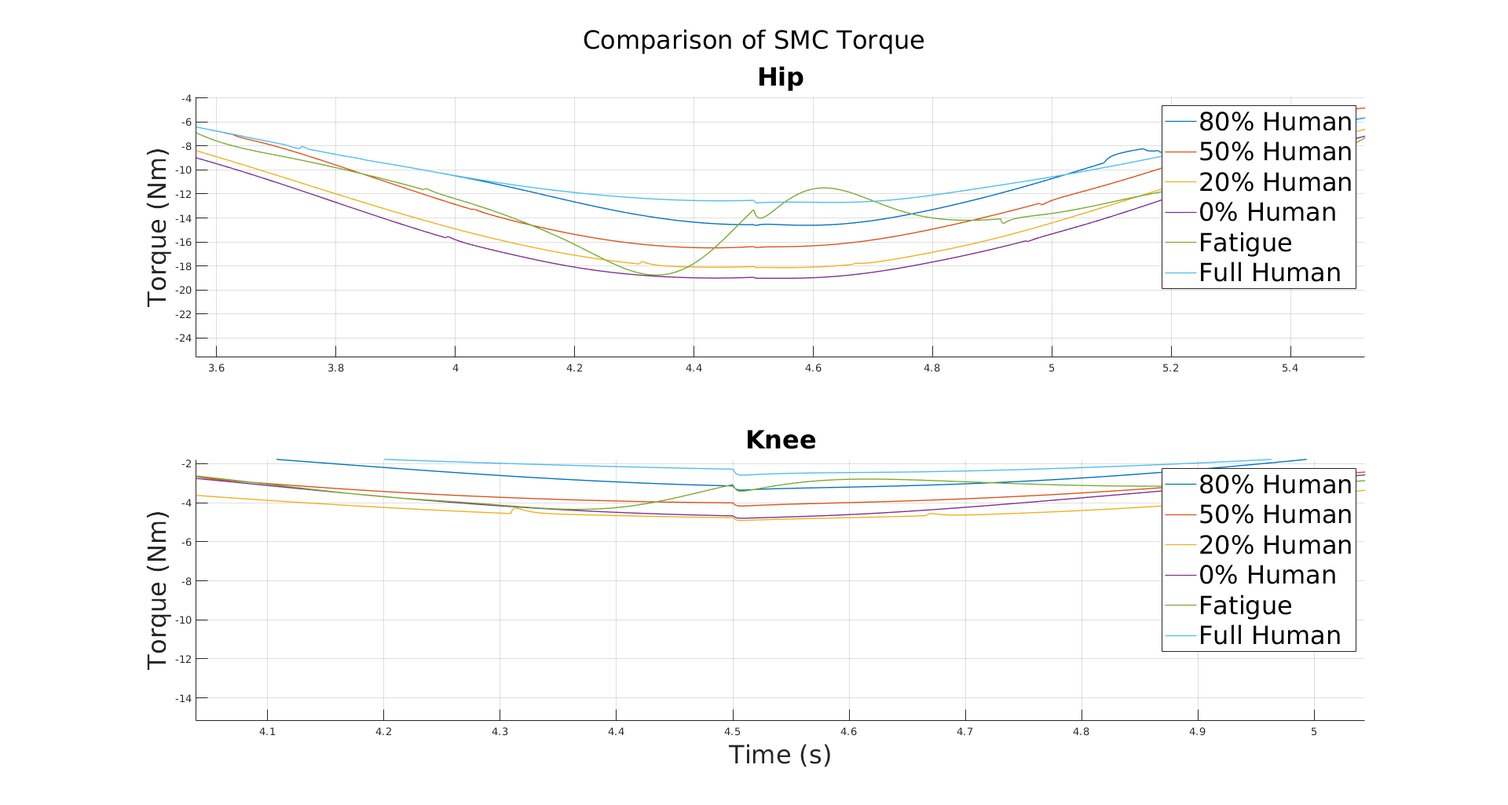
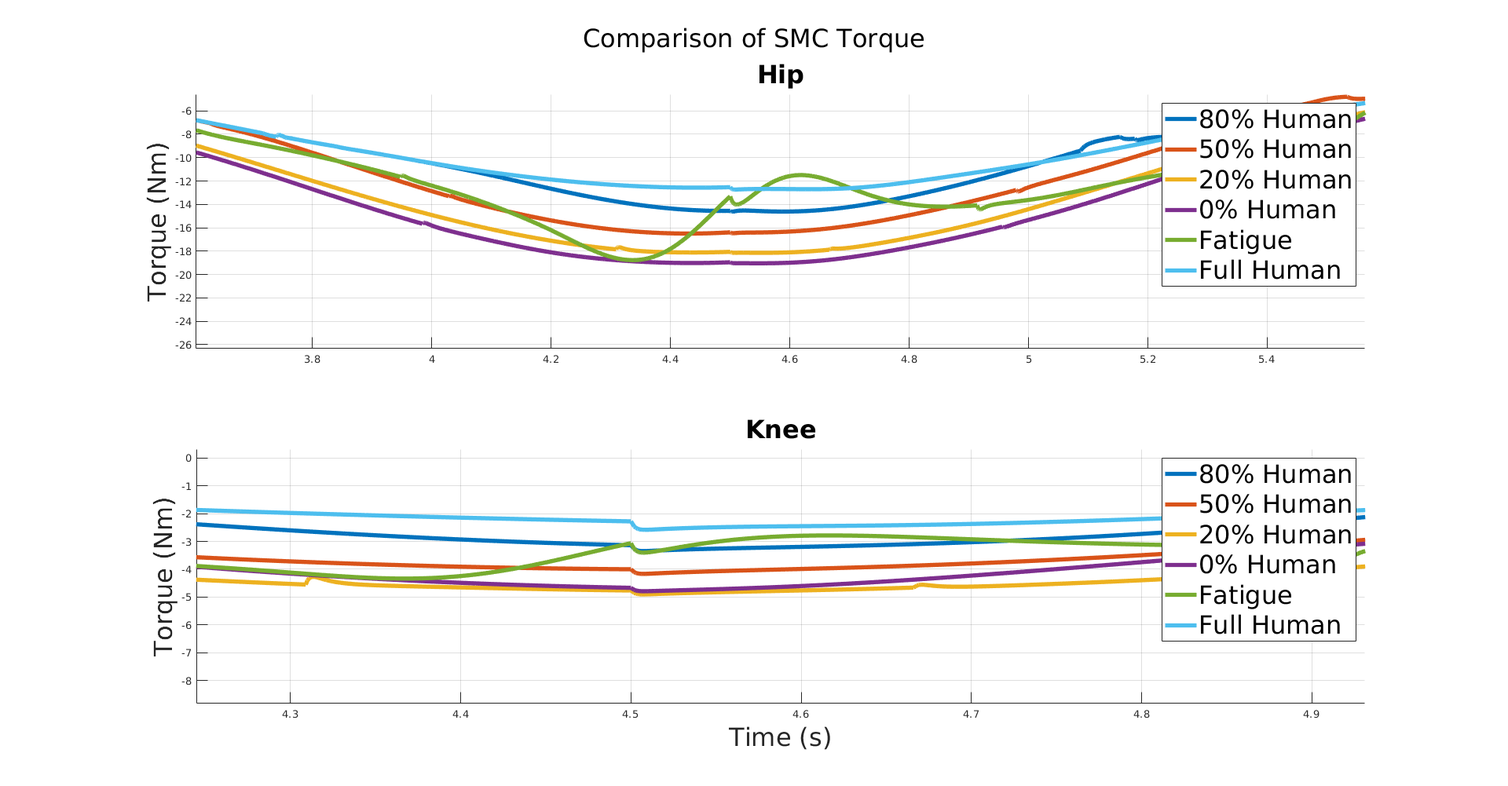
added gait information to coop controlelr, fixed some of the graphs to have thicker lines.

diff --git a/Chapters/simulation.tex b/Chapters/simulation.tex
@@ -2,7 +2,7 @@
 \label{chap:sim}
 \section{Overview}
 
-A simulation allows for the modeling and testing in a physics environment \cite{vzlajpah2008simulation}; this allows for analysis and measurements of controllers and their execution in different environments for robotics systems simulation. This feature makes it an ideal tool for the development of robotic systems. Simulation allows for controllers to be designed and tested. The simulation framework presented here is used to develop different controllers for the LARRE exoskeleton. All the controllers will be tested on the simulated LARRE model. 
+A simulation allows for the modeling and testing in a physics environment \cite{vzlajpah2008simulation}; this allows for analysis and measurements of controllers and their execution in different environments for robotics systems simulation. This feature makes it an ideal tool for the development of robotic systems. Simulation allows for controllers to be designed and tested. The simulation framework presented here is used to develop different controllers for the LARRE exoskeleton. All the controllers will be tested on the simulated LARRE model. Due to the current limitation and of AMBF all the controllers are tested with the hip of the exoskeleton fixed in space with no interaction with the ground. With further development of AMBF it is possible to adapt the controller methods present in this dissertation for ground level walking at slow speeds. 
 
 The Asynchronous Multi-Body Framework (AMBF) was used to simulate LARRE \cite{AMBF}. This framework was developed in the WPI AIM lab. 
 AMBF is a real-time dynamic simulation environment for robotics systems and uses the Robotic Operating System (ROS)\cite{quigley2009ros} as a middleware for external user control. It allows for a wide range of simulated robotics systems, including surgical robots, exoskeletons, cars, and serial manipulators. The robots are defined using AMBF description files that utilize the YAML\footnote{https://yaml.org/} format. The file describes the robot's links and joints. AMBF contains rigid body objects, sensors, and actuators. These different object types can be combined to create various robotic systems with complicated structures and sensing capabilities. 
@@ -52,8 +52,6 @@ Robotic controllers typically require knowledge of the systems' dynamics being c
 
  
  Each joint can be independently controlled and measured. The joints provide their position, velocity, and effort to the Python client, allowing the joint states to be measured and used for control. The \textit{exohuman} model consists of both the human and LARRE model. This is the first bipedal exoskeleton model that has been built for use in AMBF. Until now, the primary use of AMBF has been used to simulate robotic surgical systems. The exoskeleton adds several layers of difficultly since it is not a static system. Additionally, since the human model is connected to the exoskeleton, the two model segments can interact. The effort supplied by the human model will affect the joints of the exoskeleton; this allows for the testing of cooperative controllers, which is critical for developing the exoskeleton controller. The human effort is accounted for in the dynamic of the system.  
- 
- 
  
  
  Several sensors were built into LARRE to measure the joint states and the environment, including the joint positions and velocities. This is shown in \autoref{fig:simwalkingTraj}, where LARRE's joint positions and the human joint positions are compared to the desired trajectory.  \author{fig:simwalkingtorque} shows the torques over the same walking trajectory. As expected, the human and exoskeleton follow the same trajectory due to the joints of the human and exoskeleton being co-linear.  Similarly, \autoref{fig:simwalking} shows LARRE being controlled from a stand to sit cycle motion.
@@ -140,7 +138,13 @@ Robotic controllers typically require knowledge of the systems' dynamics being c
  \label{sec:controlarchitecture}
  
  \subsection{Overview}
- The controller architecture was developed with Shreyas Chandra Sekhar and presented a late-breaking result at iros 2021. This control package was made modular to control any serial link or parallel link manipulator modeled in AMBF. This package called the \textit{ambf\_control\_system} package consists of a dynamic server and a modular controller. The dynamic server is used to calculate the dynamics of the robotic model. The modular controller provides APIs to develop custom controllers. The contribution of this package is that it allows the dynamics of any model defined in the \textit{ADF} to be generated. It is not exclusively used for simulating systems in AMBF; it can also be used for generating the dynamics of robotic systems being simulated in Gazebo \cite{koenig2004design} or physical systems. Additionally, it expands the usability of AMBF by providing a comprehensive software package to control the AMBF simulation models. The package is split into two parts, a dynamics model server parsing configuration files and calculating the robot's dynamics and a controller interface for designing and implementing custom controllers. \autoref{fig:ambfcontrolartecture} shows a architecture diagram of the package. 
+ The controller architecture was developed with Shreyas Chandra Sekhar and presented a late-breaking result at iros 2021. Open source development of surgical robotic platforms as seen a lot of development in recent years with the development with the development of Collaborative Robotics Toolkit (CRTK)\cite{su2020collaborative}, da Vinci Research Kit \cite{d2021accelerating}, and AMBF The progress and development of these systems allow for researchers to develop new tools for surgical applications. The development of the  AMBF simulation platform allows for simulation of various surgical robotic platforms. 
+
+The dynamics of the robots used in the medical or industrial applications are often complex, and may involve some redundant links and joints such as the dVRK robot\cite{wang2019convex}. Analytically calculating the dynamics model for a controller is complex and may lead to model singularities and errors that cause instability in the controller. This process is often very robot-specific as well. A model configuration file that allows for procedural generation of the dynamic model will ensure that the controller has a matching model for canceling out the non-linear dynamic errors of the robotic model.
+
+These new simulation platforms presents the need for a open source control toolbox to interact and control the robotic platforms. This is split into two separate systems: a dynamics server, and a controller server. The dynamics server calculates the dynamics and kinematic properties of the robot. The controller server is used for calculating control commands for the robot. By dividing the implementation these two systems they can be used either together or separately.  Wrapping these system in ROS, the dynamics server can be accessed cross-platform and allows for a custom controller that incorporates dynamics of arbitrary robots to be readily implemented. Additionally, a control package is presented that leverages the dynamic server to implement the custom controller. This software architecture enables model-based controllers to be developed for, and evaluated on, different simulation and physical systems.  The dynamic server and controllers make up the \textit{ambf\_control\_system} package. While this tool is contrains \textit{ambf} in its name it can be used with any simulation system, in this paper we will only present the system application in AMBF. \autoref{fig:ambfcontrolartecture} shows a architecture diagram of the package. 
+ 
+
  
 
  \begin{figure}
@@ -202,7 +206,7 @@ Robotic controllers typically require knowledge of the systems' dynamics being c
 
 
 
-The dynamic server is designed to be used with Python and C++ clients. This modularity is achieved by wrapping the RBDL API in ROS services; this includes Jacobians, forward dynamics, inverse dynamics, and forward kinematics. These calculations have their own custom ROS service message that passes the necessary parameters down to the RBDL API and returns the calculated response. 
+The dynamic server is designed to be used with Python and C++ clients. This modality is achieved by wrapping the RBDL API in ROS services; this includes Jacobians, forward dynamics, inverse dynamics, and forward kinematics. These calculations have their own custom ROS service message that passes the necessary parameters down to the RBDL API and returns the calculated response. 
 
 The AMBF client gathers the joint position ($q$), joint velocity ($\Dot{q}$), and acceleration ($\DDot{q}$) of the robot.  The forward kinematics are calculated using these variables as shown in \autoref{eq:FD}; this returns the torque at each of the joints. To find the joint acceleration, the joint position and velocity are required in addition to a torque or command ($\tau$) shown in \autoref{eq:ID}.  
 
@@ -220,24 +224,16 @@ The AMBF client gathers the joint position ($q$), joint velocity ($\Dot{q}$), an
 \end{equation}
 
 
-The control input was measured over one million iterations to measure the execution time. The total time to call the control server and RBDL server is $1.53ms$; this includes sending and receiving both messages to both servers. Individually the calculation of the inverse kinematics is $0.013ms$, while the controller calculation takes $0.024ms$.  A direct call to the RBDL API is faster than calling it with the abstraction layer, which increases the total time required to calculate the control command. However, the abstraction layer adds the benefits of allowing cross-language support and eliminates the need to develop a YAML to RBDL parser for C++ and Python, which would double the amount of code that has to be developed and maintained. The trade-off for eliminating these complications is a time penalty for calling the ROS service of approximately $1ms-1.5ms$. This time loss is acceptable for the trade-off in the gained functionality. 
+
+\autoref{fig:dyntimming} shows the average time to get and receive a message from the dynamic server. The server was called one million times resulting in an average call time of $0.49ms$ with a standard deviation of $0.07ms$. Calling the RBDL API directly takes approximately $0.013ms$. While, this is a magnitude more it is still under $1ms$ of time. This trade should be acceptable for the modality that the dynamic server provides. 
+
+
  
  
- \subsection{Control Manager}
+ \subsection{Control Server}
  
- The control diagram is shown in \autoref{fig:Basic_AMBF_Control_Loop}. The controller manager is responsible for managing the controllers and calculating the control commands. The control manager is split into two systems; the controllers and manager pass the commands into the desired controller. 
-
-\begin{figure}[h!]
-    \centering
-    \includegraphics[scale=1.25]{images/sim/control_outline.png}
-    \caption[Basic AMBF Control Loop]{Basic AMBF Control Loop}
-    \label{fig:Basic_AMBF_Control_Loop}
-\end{figure}
-
-The control manager is a ROS service that abstracts the command inputs and allows for communication between the user and the desired controller; this allows the manager to be accessed from the Python or C++ application using a ROS service call. The control manager does not directly interact with the AMBF simulation environment. It is solely responsible for passing the control parameters back and forth between the user and the controller. This framework requires the user to maintain the control loop, gather the robot state, and send the control commands down to the robot. 
-
-Controllers are attached to the manager and are accessed at run time by the user. Multiple controllers can be connected to the manager, and each controller has a unique name to identify it.  A controller can be designed to collect external data via topics for obstacle avoidance or other external information. This framework is achieved by having each controller extend the \textit{BaseController} class, which acts as a base class to develop the controller. This framework allows for flexibility in the design of a controller. Several controllers are built into the package, including a PD controller, a model-based controller, and a sliding mode controller.  \autoref{fig:CntrlCommunicationHistogram} shows the timing histogram for one million calls to the dynamic server; on average, the call timing was $0.51ms$ with a standard deviation of $0.043ms$.  
-
+ The controller manager is responsible for managing the controllers and calculating the control commands. The control manager is split into two systems; the controllers and manager that pass the commands into the desired controller. 
+\autoref{fig:CntrlCommunicationHistogram} shows the timing histogram for one million calls to the controller server; on average, the call timing was $0.51ms$ with a standard deviation of $0.043ms$.  
 
  \begin{figure}
      \centering
@@ -247,7 +243,21 @@ Controllers are attached to the manager and are accessed at run time by the user
  \end{figure}
 
 
-\section{Integration of Control Artecture}
+The control manager is a ROS service that abstracts the command inputs and allows for communication between the user and the desired controller; this allows the manager to be accessed from the Python or C++ application using a ROS service call. The control manager does not directly interact with the AMBF simulation environment. It is solely responsible for passing the control parameters back and forth between the user and the controller. This framework requires the user to maintain the control loop, gather the robot state, and send the control commands down to the robot. A basic control diagram is shown in \autoref{fig:Basic_AMBF_Control_Loop}.
+
+
+\begin{figure}[h!]
+    \centering
+    \includegraphics[scale=1.25]{images/sim/control_outline.png}
+    \caption[Basic AMBF Control Loop]{Basic AMBF Control Loop}
+    \label{fig:Basic_AMBF_Control_Loop}
+\end{figure}
+
+Controllers are attached to the manager and are accessed at run time by the user. Multiple controllers can be connected to the manager, and each controller has a unique name to identify it.  A controller can be designed to collect external data via topics for obstacle avoidance or other external information. This framework is achieved by having each controller extend the \textit{BaseController} class, which acts as a base class to develop the controller. This framework allows for flexibility in the design of a controller. Several controllers are built into the package, including a PD controller, a model-based controller, and gravity compensation controller.  
+
+
+
+\section{Integration of Control Architecture}
 
 \autoref{fig:SystemDiagram} shows a diagram of how all the systems are connected. The red objects are a part of the \textit{ambf\_control\_system} package, the green objects are part of the \textit{ambf} package, the gray objects are external systems or files, and the round objects depict ROS nodes. ROS is utilized as the primary communication method between the different systems.
 
@@ -275,5 +285,24 @@ Controllers are attached to the manager and are accessed at run time by the user
 
 The AMBF simulation framework provides a well-structured environment for the testing of robotic systems. The functionality of the package was enhanced with the development of the \textit{ambf\_control\_system} package. This package enables a dynamic controller to be built to control the AMBF models. By developing an AMBF to RBDL parser, the dynamic control model is identical to the simulation model. By abstracting the RBDL calculations and creating the model, it can be accessed by either Python or C++ AMBF applications. The control architecture allows for controllers to be designed and implemented. Attaching the controller to the control manager allows the controller to be accessed by a ROS service call. This package provides a comprehensive method of developing controllers for AMBF robots. This control package was released open-source for community use and development alongside AMBF, creating a total package for simulating and controlling robotic systems.   
 
-The simulation framework and newly developed control architecture allow for custom controllers to be built and tested to control LARRE. It models the interaction between the human and exoskeleton. The joint sensors provide state feedback enabling trajectory control by having both the human and exoskeleton joints controllable and a cooperative controller to be developed and tested in the simulation. Other simulation frameworks do not allow for such applications to be tested.  
+The simulation framework and newly developed control architecture allow for custom controllers to be built and tested to control LARRE. It models the interaction between the human and exoskeleton. The joint sensors provide state feedback enabling trajectory control by having both the human and exoskeleton joints controllable and a cooperative controller to be developed and tested in the simulation. Other simulation frameworks do not allow for such applications to be tested. More development and testing needs to be conducted in order to get ground level walking working. This includes fixing the friction properties of LARRE feet and inserting force sensors into the feet in order to detect each step of the exoskeleton. This should be possible as the AMBF platform grows as more researchers use and develop on the platform. AMBF in its current state makes it very difficult to implement this required changes.   
 
+
+% The control input was measured over one million iterations to measure the execution time. The total time to call the control server and RBDL server is $1.53ms$; this includes sending and receiving both messages to both servers. Individually the calculation of the inverse kinematics is $0.013ms$, while the controller calculation takes $0.024ms$.  A direct call to the RBDL API is faster than calling it with the abstraction layer, which increases the total time required to calculate the control command. However, the abstraction layer adds the benefits of allowing cross-language support and eliminates the need to develop a YAML to RBDL parser for C++ and Python, which would double the amount of code that has to be developed and maintained. The trade-off for eliminating these complications is a time penalty for calling the ROS service of approximately $1ms-1.5ms$. This time loss is acceptable for the trade-off in the gained functionality. 
+
+
+
+
+
+
+ 
+ 
+%  This control package was made modular to control any serial link or parallel link manipulator modeled in AMBF. This package called the \textit{ambf\_control\_system} package consists of a dynamic server and a controller server. The dynamic server is used to calculate the dynamics of the robotic model. The controller server provides APIs to develop and manage custom controllers. 
+ 
+ 
+%  The dynamics of the robots used in the medical or industrial applications are often complex, and may involve some redundant links and joints such as the dVRK robot\cite{wang2019convex}. Analytically calculating the dynamics model for a controller is complex and may lead to model singularities and errors that cause instability in the controller. This process is often very robot-specific as well. A model configuration file that allows for procedural generation of the dynamic model will ensure that the controller has a matching model for canceling out the non-linear dynamic errors of the robotic model. 
+ 
+%  The contribution of this package is that it allows the dynamics of any model defined in the \textit{ADF} to be generated. It is not exclusively used for simulating systems in AMBF; it can also be used for generating the dynamics of robotic systems being simulated in Gazebo \cite{koenig2004design} or physical systems. 
+ 
+
+%  Additionally, it expands the usability of AMBF by providing a comprehensive software package to control the AMBF simulation models. The package is split into two parts, a dynamics model server parsing configuration files and calculating the robot's dynamics and a controller interface for designing and implementing custom controllers. \autoref{fig:ambfcontrolartecture} shows a architecture diagram of the package. 

diff --git a/Chapters/Controllers/optimization.tex b/Chapters/Controllers/optimization.tex
@@ -93,7 +93,7 @@ The \textit{assisitie} system was controlled by \autoref{eq:PDcnrl}. This is sim
     \label{eq:PDcnrl}
 \end{equation}
 
-The admittance controls the virtual dynamics of the system and how the systems interact \cite{faulring2005haptic}. If the \textit{assastie} system is capable of following the desired motion, the \textit{assasitor} system will be less aggressive. This interaction is controlled by \autoref{eq:addmittance}, where $x_a$ is the location of the virtual system and $x_d$ is the location of the point on the pendulum link. A separate spring-dampener system is on each of the links of the system. The virtual system is defined by the following terms $M_d$, $B_d$, and $K_d$ are inertia, dampening, and stiffness, respectively. As previously stated, it is desirable to have these parameters adjust on the fly to the intention and ability of the \textit{assistie} system. The variability is controlled by \autoref{eq:intention} and \autoref{eq:varible}. Here $\alpha_{n,p}$ and $\gamma_{n,p}$ are tuning variables for the damping and stiffness of the admittance controller. The admittance will control how quickly and aggressively the \textit{assistor} system will respond. If the stiffness or dampening is too large, the model will not track the desired motion.   
+The admittance controls the virtual dynamics of the system and how the systems interact \cite{faulring2005haptic}. If the \textit{assastie} system is capable of following the desired motion, the \textit{assasitor} system will be less aggressive. This interaction is controlled by \autoref{eq:addmittance}, where $x_a$ is the location of the virtual system and $x_d$ is the location of the point on the pendulum link. A separate spring-dampener system is on each of the links of the system. The virtual system is defined by the following terms $M_d$, $B_d$, and $K_d$ are inertia, dampening, and stiffness, respectively. As previously stated, it is desirable to have these parameters adjust on the fly to the intention and ability of the \textit{assistie} system. The variability is controlled by \autoref{eq:intention} and \autoref{eq:varible}. Here $\gamma_{n,p}$ and $\alpha_{n,p}$ are tuning variables for the damping and stiffness of the admittance controller. The admittance will control how quickly and aggressively the \textit{assistor} system will respond. If the stiffness or dampening is too large, the model will not track the desired motion.   
 
 \begin{equation}
     \begin{aligned}
@@ -115,8 +115,8 @@ The admittance controls the virtual dynamics of the system and how the systems i
 
 \begin{equation}
     \begin{bmatrix} K_d \\ B_d \end{bmatrix} = \begin{cases}
-        \begin{bmatrix} K_{p} \\ B_{p} \end{bmatrix} + \mu  \begin{bmatrix} \gamma_p  \\ \alpha_p \end{bmatrix}, intent = 1 \\
-        \begin{bmatrix} K_{n} \\ B_{n} \end{bmatrix} - \mu  \begin{bmatrix} \gamma_n  \\ \alpha_n \end{bmatrix}, intent = 0
+        \begin{bmatrix} K_{p} \\ B_{p} \end{bmatrix} + \mu  \begin{bmatrix} \alpha_p  \\ \gamma_p \end{bmatrix}, intent = 1 \\
+        \begin{bmatrix} K_{n} \\ B_{n} \end{bmatrix} - \mu  \begin{bmatrix} \alpha_n  \\ \gamma_n \end{bmatrix}, intent = 0
   \end{cases}
   \label{eq:varible}
 \end{equation}
@@ -313,28 +313,40 @@ Testing the variability in alignment allows for testing of the controller when t
 
 
 
-\subsection{Application of Tuning Methodology}
+\subsection{Application of Tuning Methodology on a Simple Trajectory}
 
 The tuning methodology discussed above was implemented on a the leg of the LARRE using the dynamics server to calculate the inverse and forward dynamics. This was due to complicated in the ROS-Simulink bridge, which is discussed below. 
 
 To tune the controller each of the joints of the leg where command to follow a polynomial trajectory. This was done to allow for the boundary conditions of the path to be controlled for testing. The tuning method discussed above. This model added complexity to tuning process since it added another dimension that need to be tuned. An assumption that was made that while the thigh and shank of the exoskeleton where connected via a spring-dampener system, the foot of the exoskeleton and human where rigidly connected. Additionally, the closed loop PD controller is assumed to be a FES type devices that can transform displacement into torque through pulse width and frequency modulation \cite{rouhani2017pid, ha2015approach,Model_Ferrarin}. The hip and knee joints of the exoskeleton controller is assumed to be powered by BLDC motors as discussed in \autoref{chap:mech}.
 
-\autoref{fig:LARRE_TUNING} shows the cost convergence over the optimization. A single leg was tuned to lower the amount of parameters that needed to be optimized. The optimization lowers the RSME cost from 2.66 to 0.6 which is a 77.44\% reduction. At each step in the iterations the parameters are changed in attempt to lower the cost function. The parameters being tuned have different magnitudes are thus graphed in separately to accurately show the change at each step.
+\autoref{fig:LARRE_TUNING} shows the cost convergence over the optimization. A single leg was tuned to lower the amount of parameters that needed to be optimized. The optimization lowers the RSME cost from 2.66 to 0.6 which is a 77.44\% reduction. At each step in the iterations the parameters are changed in attempt to lower the cost function. The parameters being tuned have different magnitudes are thus graphed in separately to accurately show the change at each step. \autoref{fig:LARRE_Train_Trajectory} shows how the joints of the training trajectories. As shown the initial starting position has some wobbling in the ankle position be the converged to the desired trajectory. This can be due to the initial conditions in the admittance controller or the value of $\lambda$ being large which effect the rise time.  
 
 \begin{figure}
     \centering
-    \includegraphics[width=\columnwidth]{images/controllers/trajs/cost.png}
-    \caption[LARRE Cost Optimization]{Cost of Tuning a single leg of LARRE}
-    \label{fig:LARRE_TUNING}
-\end{figure}
+    \begin{subfigure}[b]{\textwidth}
+        \centering
+        \includegraphics[width=0.8\columnwidth]{images/controllers/trajs/init_traj.png}
+        \caption[LARRE Training Trajectory]{LARRE Training Trajectory}
+        \label{fig:LARRE_Train_Trajectory}
+    \end{subfigure}
+    
+    \begin{subfigure}[b]{\textwidth}
+        \centering
+        \includegraphics[width=0.8\columnwidth]{images/controllers/trajs/cost.png}
+        \caption[LARRE Cost Optimization]{Cost of Tuning a single leg of LARRE}
+        \label{fig:LARRE_TUNING}
+    \end{subfigure}
+  
+    \begin{subfigure}[b]{\textwidth}
+        \centering
+        \includegraphics[width=0.8\columnwidth]{images/controllers/trajs/params_splite.png}
+        \caption[LARRE Parameters Optimization]{Parameters Changing Over Iterations}
+        \label{fig:LARRE_PARAMS}
+    \end{subfigure}
 
-\begin{figure}
-    \centering
-    \includegraphics[width=\columnwidth]{images/controllers/trajs/params_splite.png}
-    \caption[LARRE Parameters Optimization]{Parameters Changing Over Iterations}
-    \label{fig:LARRE_PARAMS}
+    \caption{Output for Training LARRE Graphs}
+    \label{fig:traj_training_graph}
 \end{figure}
-
 
 
 While \autoref{fig:LARRE_PARAMS} shows how the parameters change over time it does not give insight to the relative importance of the tuning parameters. A global sensitivity analysis was done to examine which parameters have the largest effect on the cost function. The goal of the analysis is to apportioning the uncertainty in outputs to the uncertainty. A global sensitivity analysis is when all the parameters are varied simultaneously over the entire range of the the inputs factors \cite{saltelli2008global}. This can be done by examining several different correlation methods listed below. Additional, these methods can also be examined as \textit{Ranked} methods. A ranked correlation method measures an ordinal association between the different variables. The ranking is is the assignment of the ordered labels. 
@@ -362,14 +374,144 @@ This data can be used to choose the more important parameters when optimizing th
 \end{equation}
 
 
-
-
 \begin{figure}
     \centering
     \includegraphics[width=\columnwidth]{images/controllers/trajs/stats.png}
     \caption[Relative Parameters Importance]{Relative Parameters Importance}
     \label{fig:paramStats}
 \end{figure}
+
+
+
+To examine the effect of the the model gains and the ability of the controller to adapt to to varying human interaction. The same trajectory was repeated three times. This was done to show how the steady state behavior of controller. Additionally, the foot is omitted since it is considered to be rigidly attached to the exoskeleton foot. 
+To examine the effects of the human effort were applied to the system from full human interaction to zero human interaction including 80\% involvement, 50\% involvement, 20\%, and a time decaying involvement. The percentage involvement was defined by examine the torque generated at 100\% involvement which was approximate $10Nm$. 
+
+\autoref{fig:StateSpaceTrajectory} shows the state space of the hip and knee joint. They show the joints move towards the sliding surface and converge towards zero with minimal chattering.  As shown in \autoref{fig:TripleTrajectory} the initial start part of the trajectory takes some time to settle to the trajectory. After the initail part of the motion the settles. The hip motion is slightly off the desired motion. The exoskeleton torque was capped to not exceed a maximum which should be raised to track the motion. This is shown since the knee motion tracks smoothly. 
+
+
+
+
+\begin{figure}
+    \centering
+    \begin{subfigure}{\linewidth}
+        \centering
+        \includegraphics[width=\columnwidth]{images/controllers/trajs/statespace.png}
+        \caption[State Space Trajectory]{State Space Trajectory}
+        \label{fig:StateSpaceTrajectory}
+    \end{subfigure}
+    \begin{subfigure}{\linewidth}
+        \centering
+        \includegraphics[width=\columnwidth]{images/controllers/trajs/triple_traj.png}
+        \caption[Triple Trajectory]{Triple Trajectory}
+        \label{fig:TripleTrajectory}
+    \end{subfigure}
+    \caption[Triple Trajectory LARRE]{Triple Trajectories}
+    \label{fig:TripleTraj}
+\end{figure}
+
+
+
+The human interaction is shown in \autoref{fig:humantripletraj}. For the varying interaction levels the human effort was saturated, this is shown since the toque cannot exceed the capped value. The fatigue started at 80\% human interaction and reduced as an exponential sine wave to 0\% interaction as shown in \author{fig:fatprofile}. While this may not be an accurate model it represents a decreasing torque over time. Additional fatigue is difficult to model as it depends on the patient muscle atrophy, the muscle being activated, and the pulse width used to activate the muscle \cite{reiner1998patient}. As expected the fatigue interaction contains a wave like motion as the PD controller attempts to handle the varying engagement levels. 
+
+
+\begin{figure}
+    \centering
+    \includegraphics[width=\columnwidth]{images/controllers/gait/fat_profile.png}
+    \caption[Fatigue Profile]{Fatigue Profile}
+    \label{fig:fatprofile}
+\end{figure}
+
+
+\begin{figure}
+    \centering
+    \includegraphics[width=\columnwidth]{images/controllers/trajs/human.png}
+    \caption[Human Torque over Triple Trajectory]{Human Torque over Triple Trajectory}
+    \label{fig:humantripletraj}
+\end{figure}
+
+
+\autoref{fig:SMCTripleFull} shows the effort supplied by the SMC for each of the engagement levels. \autoref{fig:SMCTripleZoom} is a zoomed of the same graph. As shown the as the human engagement increased the SMC magnitude of the effort decreased for both hip and knee joints. This shows that the SMC controller is adapting the human engagement level. 
+
+
+\begin{figure}
+    \begin{subfigure}{\linewidth}
+        \centering
+        \includegraphics[width=\columnwidth]{images/controllers/trajs/SMC_full.png}
+        \caption[SMC Torque over Triple Trajectory]{SMC Torque over Triple Trajectory}
+        \label{fig:SMCTripleFull}
+    \end{subfigure}
+    \begin{subfigure}{\linewidth}
+        \centering
+        \includegraphics[width=\columnwidth]{images/controllers/trajs/SMC_zoom.png}
+        \caption[SMC Torque over Triple Trajectory Zoomed]{SMC Torque over Triple Trajectory Zoomed In}
+        \label{fig:SMCTripleZoom}
+    \end{subfigure}
+    \caption{SMC Effort applied over the Triple Trajectory}
+    \label{fig:SMCEffortTriple}
+\end{figure}
+
+The interaction torques between the LARRE and the human is wait provides the assastive torques. The spring-dampener systems generates the force which are transformed in the the torques. \autoref{fig:InteractionTripleTraj} shows the interaction trajectories, as expected the the magnitude interaction torque increases when then the human involvement decrease this is because the human motion is lagging behind the location of exoskeleton thus generating larger forces. 
+
+\begin{figure}
+    \centering
+    \includegraphics[width=\columnwidth]{images/controllers/trajs/interactions.png}
+    \caption[Triple Trajectory Interaction Torques]{Triple Trajectory Interaction Torques}
+    \label{fig:InteractionTripleTraj}
+\end{figure}
+
+
+\subsection{Application of Tuning Methodology to Follow a Gait Cycle}
+
+
+Using the parameters calculated above the model was then used to follow a three gait cycle to observer the steady state motion of the controller. The trajectory was auto generated by combining three gait cycles.  One of the important changes to the model was the using the torques pre-calculated  by the iLQR method (see \autoref{sec:ilqr}) as the standard interaction torques.  This is instead of using a inverse dynamic model since the iLQR controller should produce optimal torques to follow the gait trajectory. The A-SMC then compensates for the disturbances in the system. \autoref{fig:CoopSimulink} shows the Simulink model used to control the gait following model. The outputs torques that are highlighted go to dynamics server which double integrates the output to get the joint positions and velocity. Which are then feedback as the input joint states. The interaction dynamics are the spring-dampener equations which calculate the coupled forces.  
+
+
+
+\begin{figure}[h!]
+    \centering
+    \includegraphics[width=\columnwidth]{images/controllers/upper_model_simulink_edit.png}
+    \caption[Simulink Model Cooperative Controller]{Simulink Model of the Cooperative Gait Controller }
+    \label{fig:CoopSimulink}
+\end{figure}
+
+
+\author{fig:TripleGaitMotion} shows gait motion with varying human engagement levels. The SMC controller was able to compensate the for the lack of human involvement and track the gait cycle which is more complex then the previous simple trajectory. The initial start of the controller varies slightly however it converges to a steady state operation and track the other gait cycles closely. 
+
+\begin{figure}
+    \centering
+    \includegraphics[width=\columnwidth]{images/controllers/gait/traj.png}
+    \caption{Triple Gait Cycle}
+    \label{fig:TripleGaitMotion}
+\end{figure}
+
+
+
+\autoref{fig:TorqueOverGaitCycles} shows the torques generated to follow the gait cycles. \autoref{fig:HumanTripleGaitMotion} shows the human torques over the gait cycle. The maximum torque is capped at the different levels. This can been seen where the the torque does not surpass the maximum activation level. The same fatigue profile shown in \autoref{fig:fatprofile} was used to simulate the muscle fatigue. \autoref{fig:SMCTripleGaitMotion} shows the SMC controller torques generated over the gait cycle. \autoref{fig:InteractionTripleGaitInteration} shows the interaction torques between the human and LARRE. Unlike in the simple trajectory model the human torque profile shown here spikes to the saturation limit. The SMC controller torque contain a similar profiles that were observed in the simple trajectory where as the human torque decrees the SMC troque increases. Additional the controller was able to compensate for the time varying fatigue, which is critical for operation where the user may not be able to maintain the required torque through the gait cycle. 
+
+\begin{figure}
+    \centering
+    \begin{subfigure}{0.8\linewidth}
+        \centering
+        \includegraphics[width=\columnwidth]{images/controllers/gait/SMC.png}
+        \caption[SMC Torque Over Gait Cycles]{SMC Torque Over Gait Cycles}
+        \label{fig:SMCTripleGaitMotion}
+    \end{subfigure}
+    \begin{subfigure}{0.8\linewidth}
+        \centering
+        \includegraphics[width=\columnwidth]{images/controllers/gait/human.png}
+        \caption[Human Torque Over Gait Cycles]{Human Torque Over Gait Cycles}
+        \label{fig:HumanTripleGaitMotion}
+    \end{subfigure}
+        \begin{subfigure}{0.8\linewidth}
+        \centering
+        \includegraphics[width=\columnwidth]{images/controllers/gait/feedback.png}
+        \caption[Human Torque Over Gait Cycles]{Human Torque Over Gait Cycles}
+        \label{fig:InteractionTripleGaitInteration}
+    \end{subfigure}
+    \caption{Torque Over Gait Cycles}
+    \label{fig:TorqueOverGaitCycles}
+\end{figure}
+
 
 
 
@@ -456,5 +598,5 @@ A bug in the ROS-Simulink framework was discovered during development. While MAT
 
 
 
-\subsection{Contributions}
+
 

diff --git a/Chapters/Controllers/controllers.tex b/Chapters/Controllers/controllers.tex
@@ -21,3 +21,16 @@ All the controllers are implemented using the control architecture discussed in 
 
 \input{Chapters/Controllers/iLQR_Controller}
 \input{Chapters/Controllers/optimization}
+
+
+\section{Contributions}
+
+Several contributions were made to the field of controller development. Both the iLQR controller and the A-SMC cooperative controller introduced new methods that expand on previous applications and research. Both the controller have application outside the field outside of lower limb exoskeletons. The generalized forms of the controller can be used for assastive control applications and to generate optimal control signals for non-linear robotic systems. 
+
+
+The iLQR controller introduced a new method of integrating an optimal controller with learning from demonstration to control a lower limb exoskeleton. This controller method allows a trajectory to be learned from multiple demonstrations and uses a non-linear dynamic model to learn an optimal control signal.  Using a non-linear model allows for the complex dynamics to be encoded into the control signal. The PD controller allows feedback to account for non-modeled dynamics. 
+
+
+
+The new tuning method of an A-SMC controller was presented, allowing for the parameters to be automatically determined. This method was shown to improve the state space of the SMC. Using a position and velocity cost function allows for the gains to be automatically tuned to the system. This generalization of the tuning method allows it to be used for more complex systems with more joints or complex dynamics.  Additionally, it was shown that the controller was able to handle varying alignment and involvements of the \textit{assitie} system; this is important since these controllers are often incorporated into \textit{assistive} exoskeleton systems. 
+

diff --git a/Chapters/Controllers/iLQR_Controller.tex b/Chapters/Controllers/iLQR_Controller.tex
@@ -1,5 +1,5 @@
 \section{iterative Linear Quadratic Regulator}
-
+\label{sec:ilqr}
 
 \subsection{Overview of iLQR Controller}
 
@@ -127,7 +127,7 @@ To find the $R$ matrix's values; the values were iteratively changed to find a m
     \label{eq:R_cost}
 \end{equation}
 
-The high dimensionality and non-linear dynamics make it challenging to weight values of the matrix \cite{park2012multi}. The complexity of the motor behaviors also increases the difficulty of finding the $R$ matrix. Therefore, a brute-force method was implemented to go through values in different magnitudes and select the optimal result. The control signal was tested by forward integrating using RK4.  
+The high dimensional and non-linear dynamics make it challenging to weight values of the matrix \cite{park2012multi}. The complexity of the motor behaviors also increases the difficulty of finding the $R$ matrix. Therefore, a brute-force method was implemented to go through values in different magnitudes and select the optimal result. The control signal was tested by forward integrating using RK4.  
 
 % \autoref{fig:error_digram} show the optimal trajectory and one unfit case:
 

diff --git a/main.tex b/main.tex
@@ -158,7 +158,7 @@ Professor Karen Troy,  Committee Member
 \rule{3in}{0.8pt}
 
 % This is also constant :)
-Professor ??????,  Committee Member
+Professor Jing Xiao,  Committee Member
 
 
 \vspace{0.5in}

diff --git a/Chapters/futurework.tex b/Chapters/futurework.tex
@@ -1,0 +1,2 @@
+\chapter{Future Work}
+
